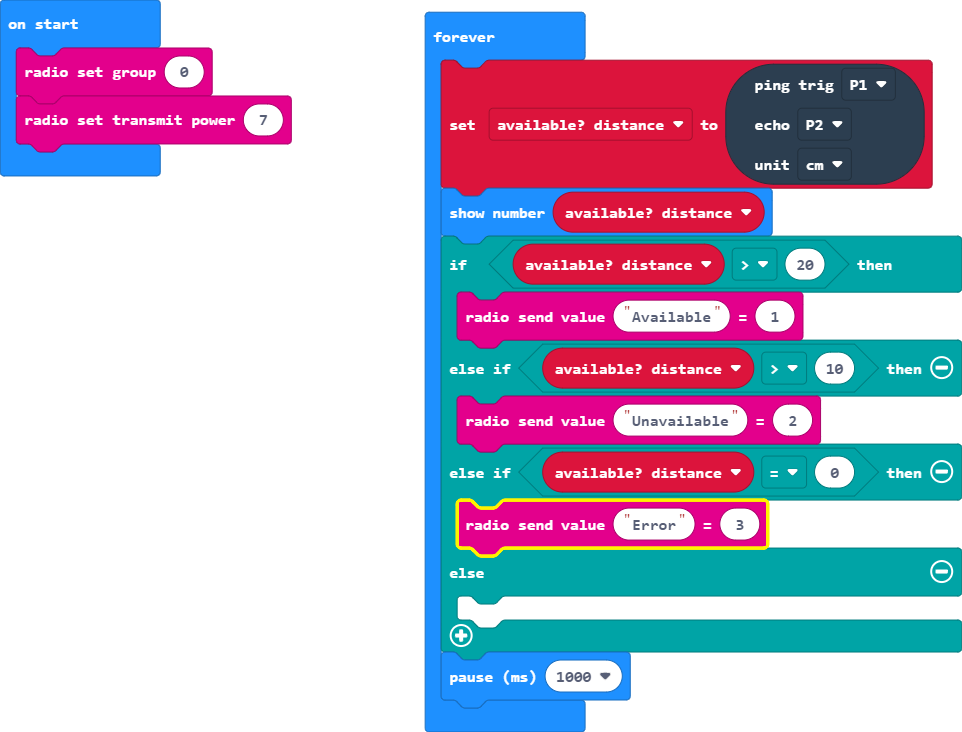
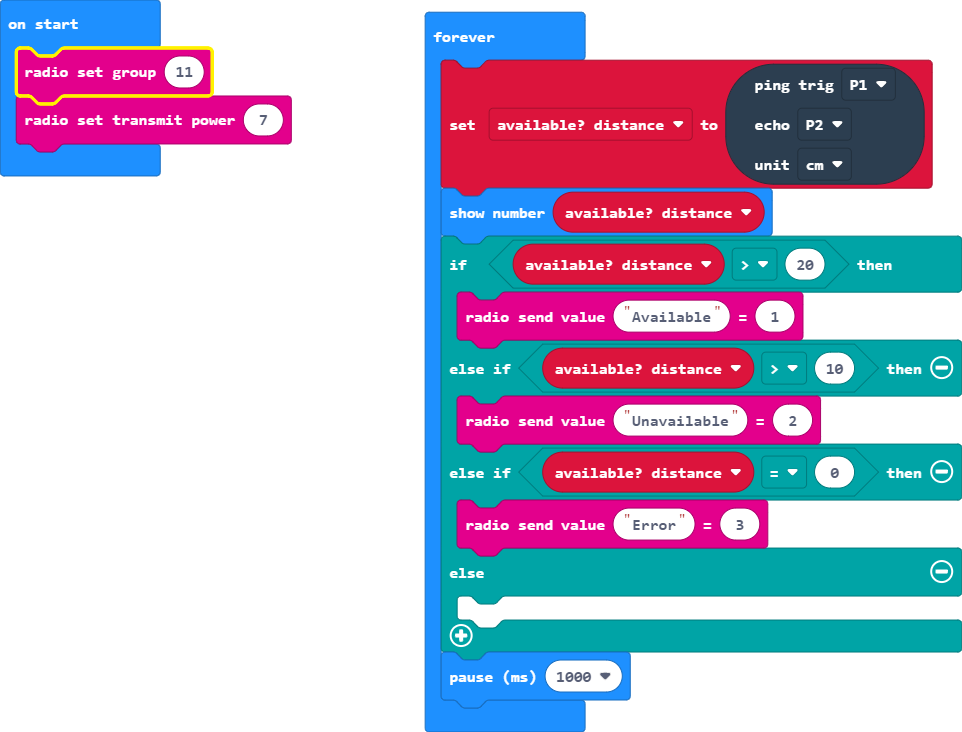
Update pxt.json, main.blocks, main.ts

diff --git a/main.ts b/main.ts
@@ -1,5 +1,5 @@
 let available_distance = 0
-radio.setGroup(0)
+radio.setGroup(11)
 radio.setTransmitPower(7)
 basic.forever(function () {
     available_distance = sonar.ping(
